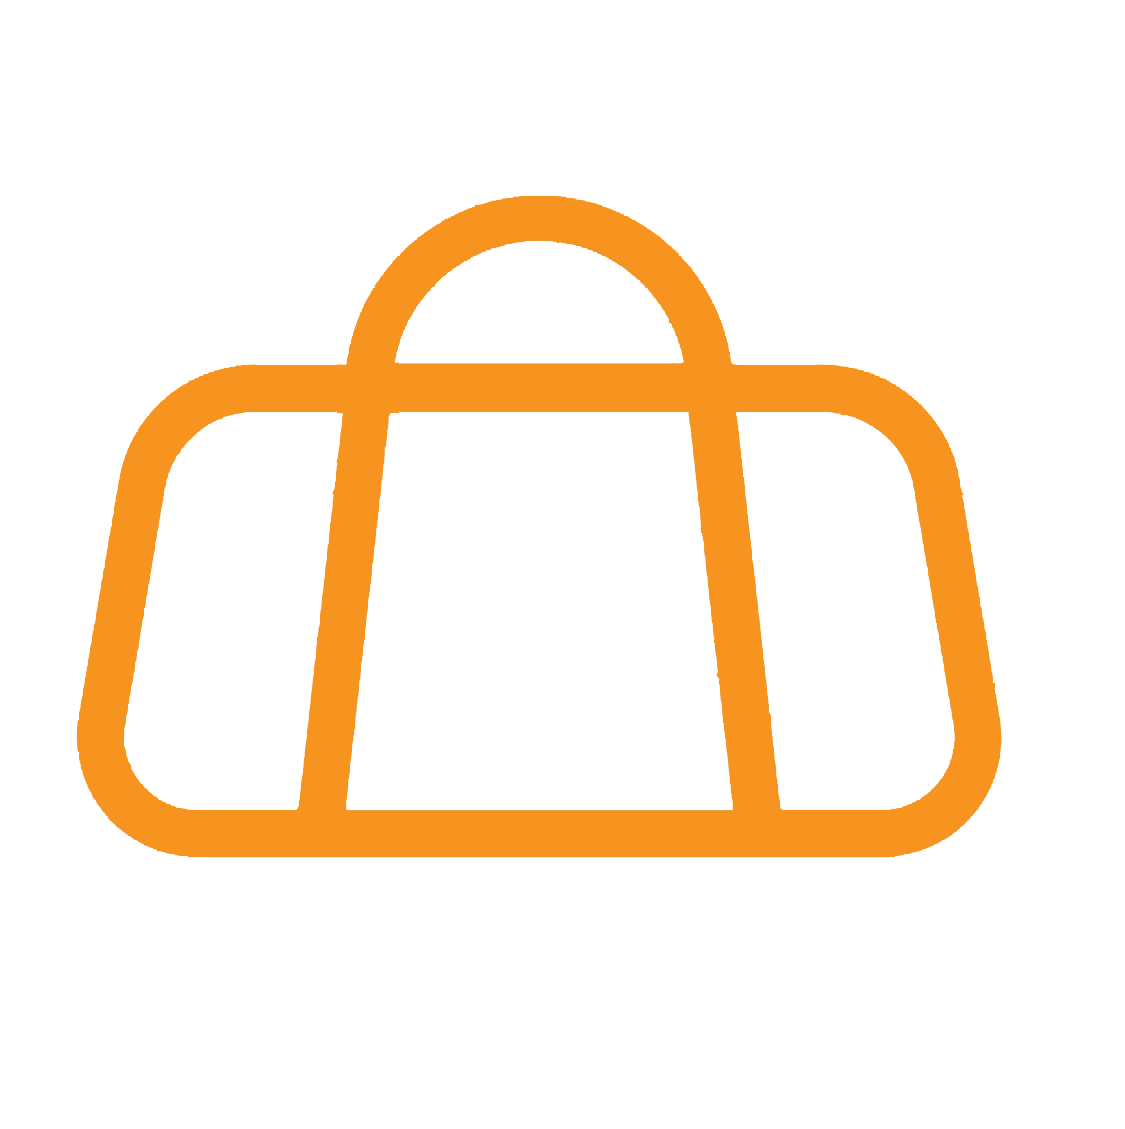
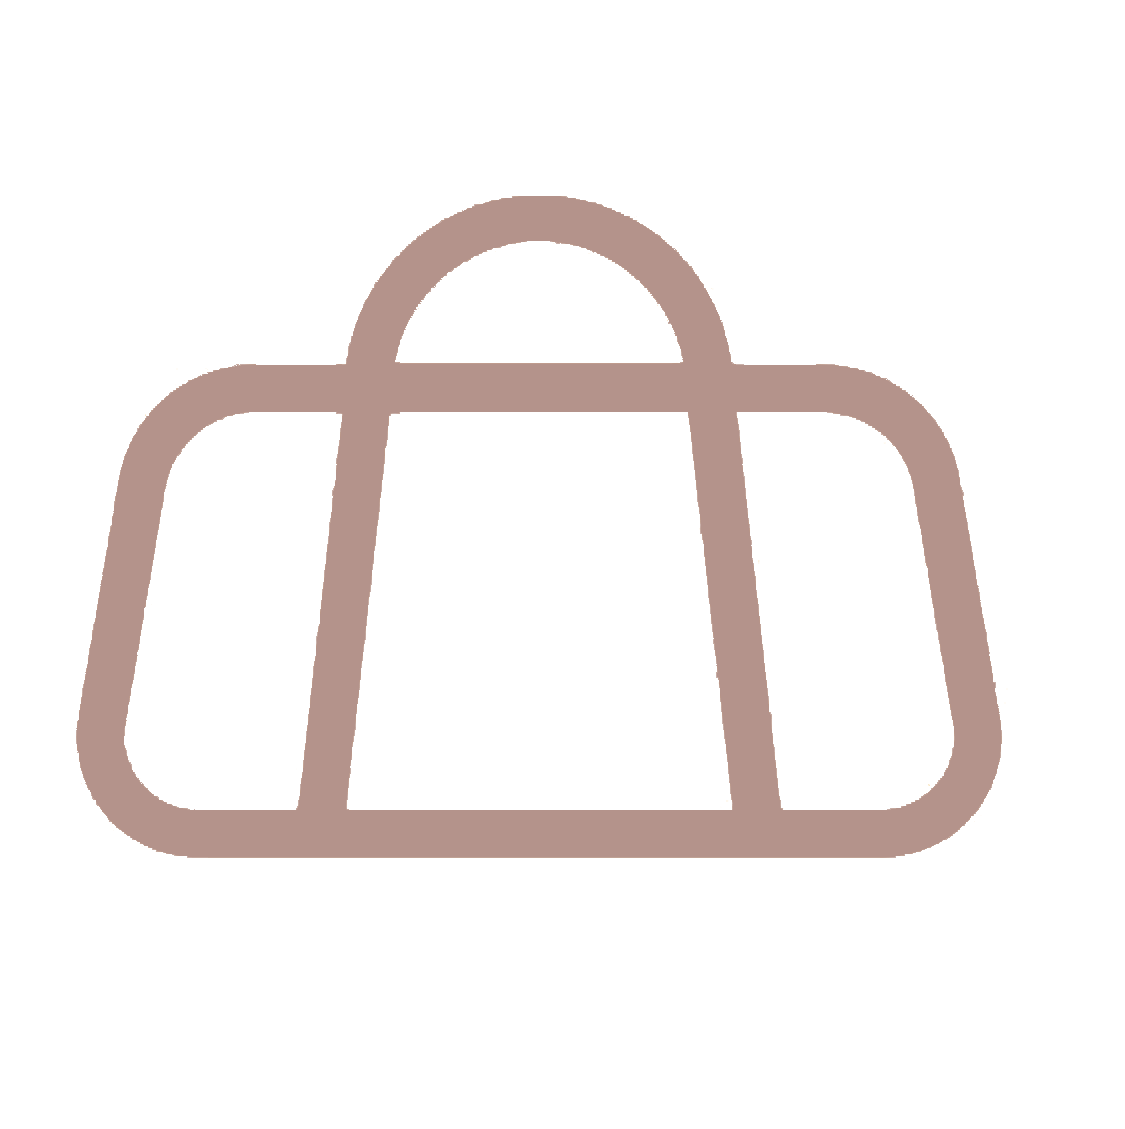
DY

Changed region(s): [[0.0622, 0.155, 0.9022, 0.775]]

diff --git a/catalog/view/theme/default/stylesheet/thirdparty/custom.css b/catalog/view/theme/default/stylesheet/thirdparty/custom.css
@@ -887,7 +887,7 @@ h3,
 h4,
 h5,
 h6 {
-    color: #f79321
+    color: #b4938b;
 }
 
 .box-icon-item {
